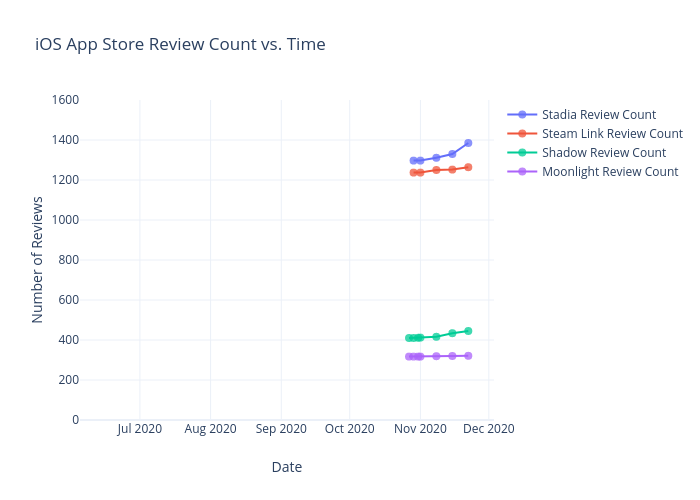
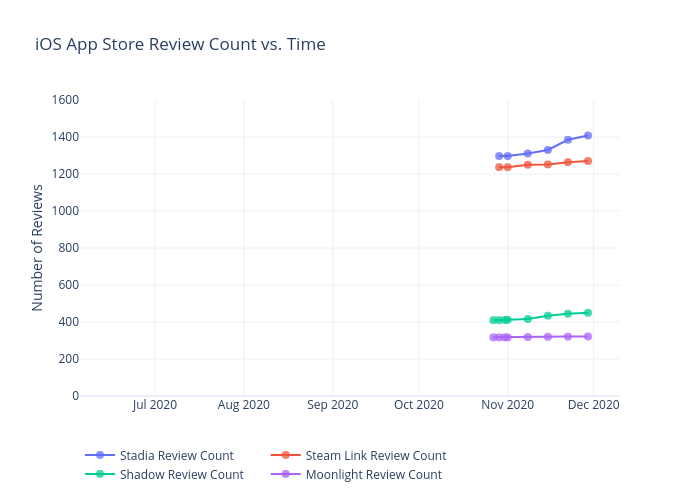
Add files via upload
11/29 data

diff --git a/iosappstore/figure.js b/iosappstore/figure.js
@@ -21,6 +21,7 @@ var figure = {
                 "2020-11-08",
                 "2020-11-15",
                 "2020-11-22",
+                "2020-11-29",
                 "2020-11-30",
                 "2020-12-01"
             ],
@@ -34,7 +35,8 @@ var figure = {
                 "1297",
                 "1311",
                 "1330",
-                "1385"
+                "1385",
+                "1408"
             ],
             "marker": {
                 "size": 8,
@@ -64,6 +66,7 @@ var figure = {
                 "2020-11-08",
                 "2020-11-15",
                 "2020-11-22",
+                "2020-11-29",
                 "2020-11-30",
                 "2020-12-01"
             ],
@@ -77,7 +80,8 @@ var figure = {
                 "1237",
                 "1250",
                 "1252",
-                "1264"
+                "1264",
+                "1270"
             ],
             "marker": {
                 "size": 8,
@@ -107,6 +111,7 @@ var figure = {
                 "2020-11-08",
                 "2020-11-15",
                 "2020-11-22",
+                "2020-11-29",
                 "2020-11-30",
                 "2020-12-01"
             ],
@@ -120,7 +125,8 @@ var figure = {
                 "412",
                 "416",
                 "434",
-                "445"
+                "445",
+                "450"
             ],
             "marker": {
                 "size": 8,
@@ -150,6 +156,7 @@ var figure = {
                 "2020-11-08",
                 "2020-11-15",
                 "2020-11-22",
+                "2020-11-29",
                 "2020-11-30",
                 "2020-12-01"
             ],
@@ -163,7 +170,8 @@ var figure = {
                 "317",
                 "319",
                 "320",
-                "321"
+                "321",
+                "322"
             ],
             "marker": {
                 "size": 8,
@@ -180,11 +188,11 @@ var figure = {
         "xaxis": {
             "type": "date",
             "range": [
-                "2020-06-05 19:56:48.4064",
-                "2020-12-02 04:03:11.5936"
+                "2020-06-05 14:19:50.0141",
+                "2020-12-09 09:40:09.9859"
             ],
             "title": {
-                "text": "Date"
+                "text": ""
             },
             "autorange": true
         },
@@ -198,6 +206,11 @@ var figure = {
                 "text": "Number of Reviews"
             },
             "autorange": false
+        },
+        "legend": {
+            "x": 0,
+            "y": -0.15,
+            "orientation": "h"
         },
         "autosize": true,
         "template": {
